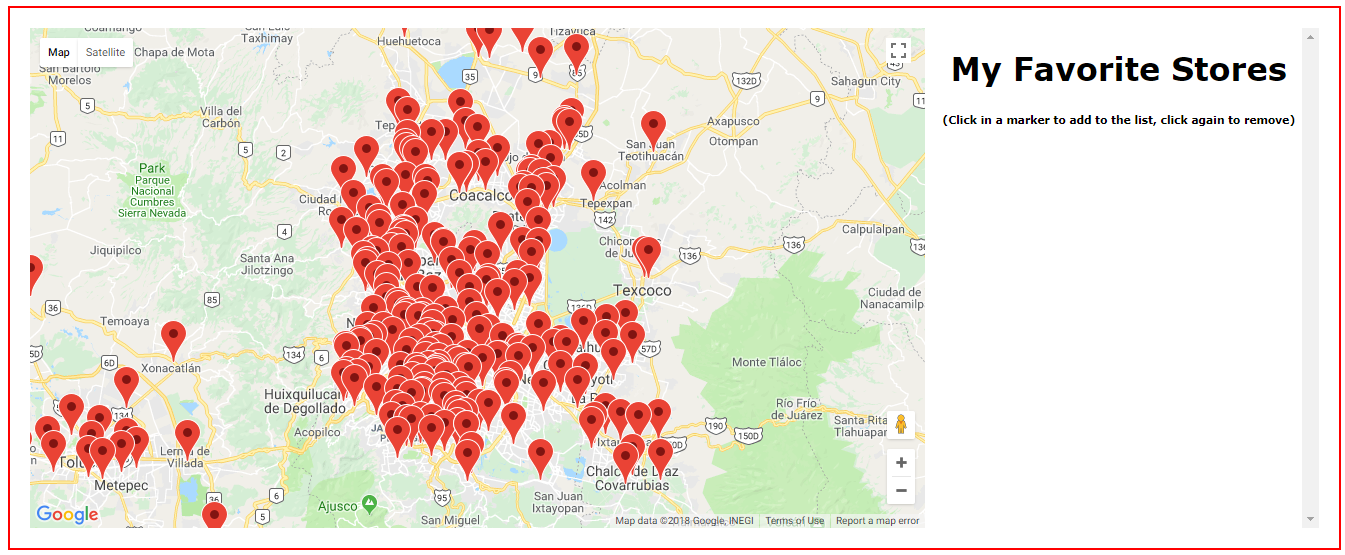
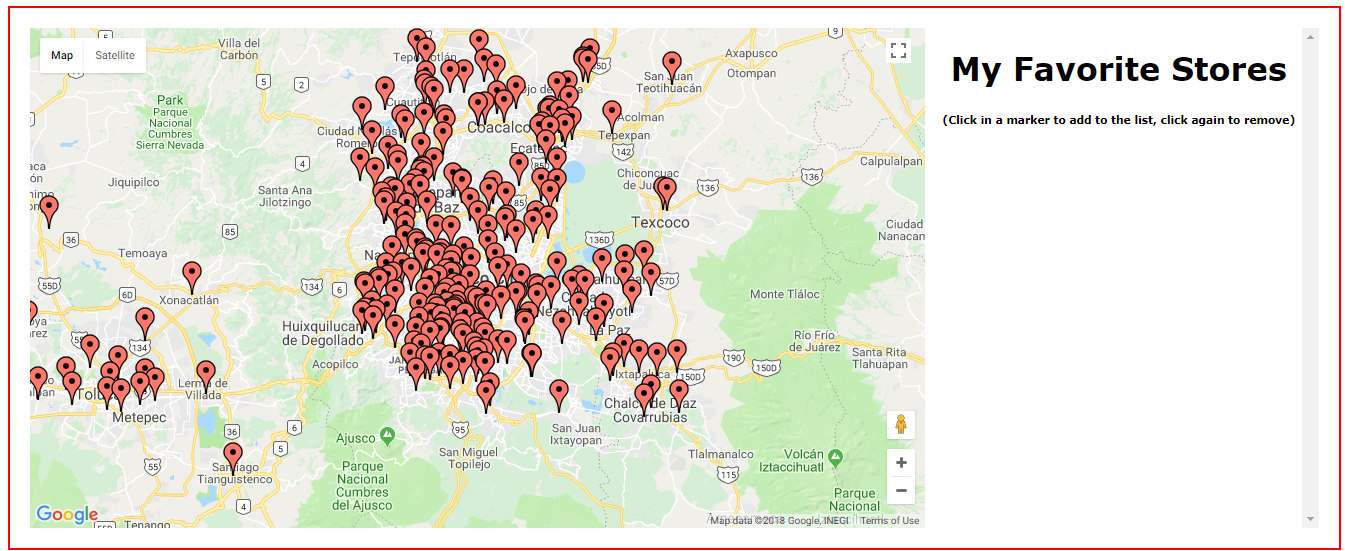
Add color to selected markers

diff --git a/src/YourComponent.js b/src/YourComponent.js
@@ -30,6 +30,7 @@ class YourComponent extends Component {
               position = {{lat: lat, lng: lng}}
               title = {address}
               name = { name }
+              icon = {{url: 'https://www.google.com/mapfiles/marker.png'}}
             />
     this.setState({ markers: this.state.markers.concat([marker]) })
   }
@@ -51,8 +52,10 @@ class YourComponent extends Component {
     if (this.state.favorites.includes(marker)) {
       var index = this.state.favorites.indexOf(marker)
       this.setState({ favorites: this.state.favorites.filter(favorite => favorite != marker)})
+      marker.setIcon('https://www.google.com/mapfiles/marker.png')
     } else {
       this.setState({ favorites: this.state.favorites.concat([marker]) })
+      marker.setIcon('https://www.google.com/mapfiles/marker_green.png')
     }
   }
 

diff --git a/README.md b/README.md
@@ -17,6 +17,8 @@ To select a store as a favorite simply click the marker.
 
 To remove the store from the favorites click the marker again.
 
+The markers in the map will change to green if selected to the list.
+
 ## Libraries used:
 
 google-maps-react for the use of the google maps API which displays the map and the markers
